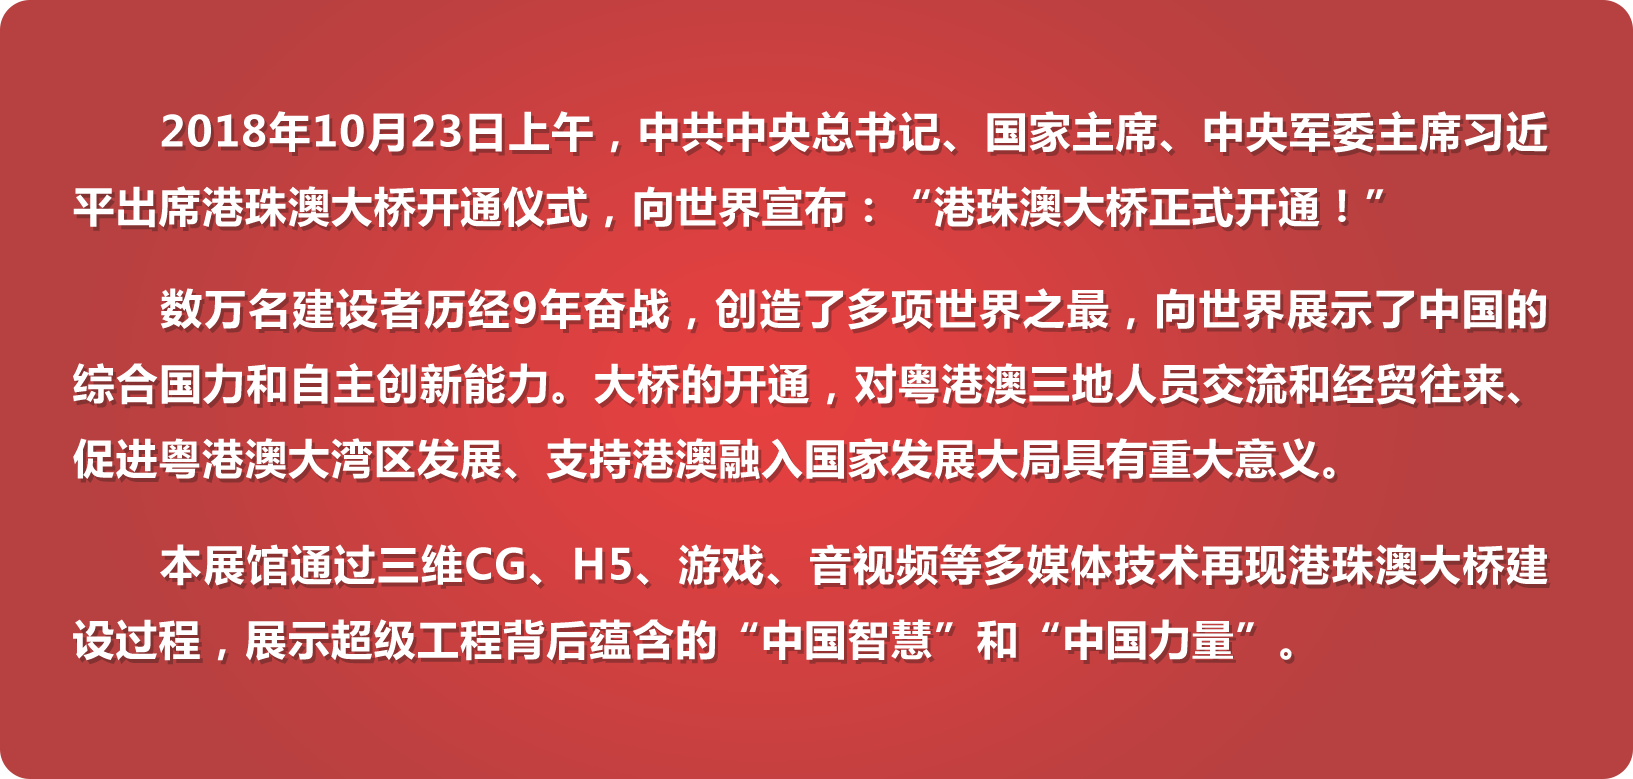
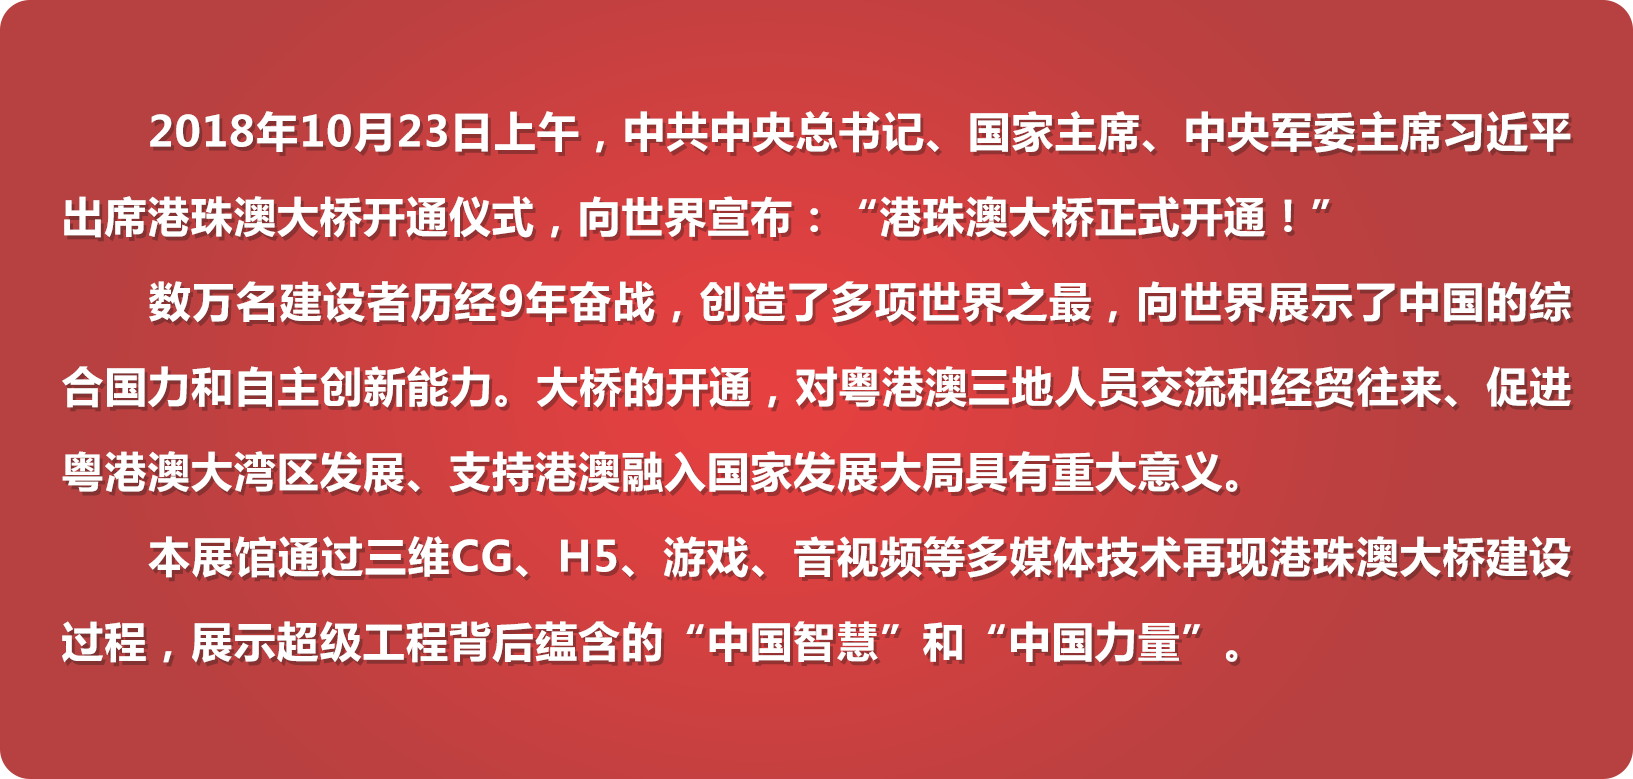
调整文案和样式

diff --git a/src/data/7-3.js b/src/data/7-3.js
@@ -1,59 +1,28 @@
 const infoDataArr = [
   {
     name: 'rubberWterstop',
-    title: '橡胶止水带：',
-    info: `止水带是沉管隧道的生命线。港珠澳大桥沉管隧道管节水
-      密防护采用橡胶止水带止水方案，在不同位置分别安装止水带、
-      中埋式止水带和两种型号的Omega止水带。其中大Omega止水带
-      是保证隧道管节接头水密性的重要构件，在沉管隧道遭遇地震、
-      爆炸、撞击等异常情况，发挥防水功能。别看一条普通的橡胶
-      材质止水带，实际它的材料非常精细、技术也很复杂，每条造
-      价高达200多万元。因为“十分精贵”，所以不能用机械设备安装，
-      只能靠人工一点点镶嵌。`,
+    title: '橡胶止水带',
+    info: `止水带是沉管隧道的生命线。港珠澳大桥沉管隧道管节水密防护采用橡胶止水带止水方案，在不同位置分别安装止水带、中埋式止水带和两种型号的Omega止水带。其中大Omega止水带是保证隧道管节接头水密性的重要构件，在沉管隧道遭遇地震、爆炸、撞击等异常情况，发挥防水功能。别看一条普通的橡胶材质止水带，实际它的材料非常精细、技术也很复杂，每条造价高达200多万元。因为“十分精贵”，所以不能用机械设备安装，只能靠人工一点点镶嵌。`,
   },
   {
     name: 'compositeFoundation',
-    title: '创新复合地基：',
-    info: `港珠澳大桥沉管隧道所处的海底地质环境是很厚的软土地基，
-      为了实现隧道不漏水，中国工程师在如何使软土层变硬上做文章。他
-      们经过无数次工法比选、理论计算和试验验证，在40多米深的海水下
-      为沉管基床底部铺上2到3米的块石并将它们打实，创造一种新的复合
-      地基，使沉管的沉降值大大缩小，平均沉降值控制在10厘米以内，杜
-      绝因海底沉降导致的渗水，而国外一般在20厘米左右。`,
+    title: '创新复合地基',
+    info: `港珠澳大桥沉管隧道所处的海底地质环境是很厚的软土地基，为了实现隧道不漏水，中国工程师在如何使软土层变硬上做文章。他们经过无数次工法比选、理论计算和试验验证，在40多米深的海水下为沉管基床底部铺上2到3米的块石并将它们打实，创造一种新的复合地基，使沉管的沉降值大大缩小，平均沉降值控制在10厘米以内，杜绝因海底沉降导致的渗水，而国外一般在20厘米左右。`,
   },
   {
     name: 'semirigidStructure',
-    title: '半刚性结构：',
-    info: `一直以来，沉管制作只有刚性和柔性两种方法，但这两种无
-      方法都无法满足港珠澳大桥的要求。于是，中国工程师们创新提出半
-      刚性的解决方案。半刚性结构综合了刚性和柔性结构的优点。用积木
-      做比喻吧，刚性结构就好比是长条的积木，柔性结构就好比用乐高小
-      积木拼接的积木条，而半刚性结构就像是用一根橡皮筋串起乐高小积
-      木，刚柔并济。半刚性结构允许积木之间有一定的张开，而且这个张
-      开是有控制的，不能无限变形，同时，保持始终在积木之间有一定的
-      压力，使得摩擦力能够发挥作用，保持相对不错位。`,
+    title: '半刚性结构',
+    info: `一直以来，沉管制作只有刚性和柔性两种方法，但这两种无方法都无法满足港珠澳大桥的要求。于是，中国工程师们创新提出半刚性的解决方案。半刚性结构综合了刚性和柔性结构的优点。用积木做比喻吧，刚性结构就好比是长条的积木，柔性结构就好比用乐高小积木拼接的积木条，而半刚性结构就像是用一根橡皮筋串起乐高小积木，刚柔并济。半刚性结构允许积木之间有一定的张开，而且这个张开是有控制的，不能无限变形，同时，保持始终在积木之间有一定的压力，使得摩擦力能够发挥作用，保持相对不错位。`,
   },
   {
     name: 'bestProportionOfConcrete',
-    title: '最佳配合比混凝土：',
-    info: `为了满足“强度、耐久性、施工性、抗裂性”四项基本要求，工
-      程师们用了近1年，用坏了4个混凝土搅拌机后，终于找到最佳的混凝土
-      配方。又经过上百次的试验调整，开展6次现场小尺寸模型试验，2次足
-      尺模型试验，18个人工岛沉箱混凝土验证，最终配制出抗裂性能强，满
-      足沉管施工工艺性能要求的混凝土配方。我们还专访了找到最佳的混凝
-      土配方的港珠澳大桥建设者——张宝兰，点击观看视频。`,
+    title: '最佳配合比混凝土',
+    info: `为了满足“强度、耐久性、施工性、抗裂性”四项基本要求，工程师们用了近1年，用坏了4个混凝土搅拌机后，终于找到最佳的混凝土配方。又经过上百次的试验调整，开展6次现场小尺寸模型试验，2次足尺模型试验，18个人工岛沉箱混凝土验证，最终配制出抗裂性能强，满足沉管施工工艺性能要求的混凝土配方。我们还专访了找到最佳的混凝土配方的港珠澳大桥建设者——张宝兰，点击观看视频。`,
   },
   {
     name: 'processManagement',
-    title: '156道工序管理：',
-    info: `从一根钢筋、一方混凝土到一个180米长的巨型沉管，需要经过
-      钢筋加工、钢筋笼绑扎、混凝土浇筑、管节一次舾装、深浅坞蓄排水及管
-      节起浮横移等156道工序，每一道工序都关系着港珠澳大桥120年的使用寿
-      命，每一个过程都充满风险，每一个环节都关乎产品质量。六年来，在156
-      道工序上的每一位建设者们，他们始终秉承着“每一次都是第一次”的工作
-      理念，始终坚持精益求精、追求精致的“工匠精神”，每一道工序、每一个
-      环节以“走钢丝”的心态，做到如履薄冰、细微严苛，一节一节完成大桥海
-      底隧道的延伸，一米一米地丈量出这座世纪工程`,
+    title: '156道工序管理',
+    info: `从一根钢筋、一方混凝土到一个180米长的巨型沉管，需要经过钢筋加工、钢筋笼绑扎、混凝土浇筑、管节一次舾装、深浅坞蓄排水及管节起浮横移等156道工序，每一道工序都关系着港珠澳大桥120年的使用寿命，每一个过程都充满风险，每一个环节都关乎产品质量。施工过程中，在156道工序上的每一位建设者们，他们始终秉承着“每一次都是第一次”的工作理念，始终坚持精益求精、追求精致的“工匠精神”，每一道工序、每一个环节以“走钢丝”的心态，做到如履薄冰、细微严苛，一节一节完成大桥海底隧道的延伸，一米一米地丈量出这座世纪工程。`,
   },
   {
     name: 'bhajan',

diff --git a/src/views/ZhiShiMoFang/data.js b/src/views/ZhiShiMoFang/data.js
@@ -313,6 +313,7 @@ export default
   'answer': [
     '（1）内地港珠澳大桥车牌办理条件有两个，一是公司必须是广东省内核准的国有企业、集体企业、私营企业等；二是三年内纳税总额需要达到一百万元人民币以上。除此之外，内资企业申请办理港珠澳车牌，还应提交部分证明材料。',
     '（2）境外申请港珠澳大桥车牌办理条件：境外到广东省内投资的企业（这里包括港澳台地区和外国公司等），无论投资额多少，只要在三年内（含申办当年）累计纳税达到10万元人民币以上，就能申请办理一辆通过港珠澳大桥往返内地的牌证；累计纳税50万元以上，可申请第二张港珠澳车牌；累计纳税100万元人民币以上的，可申请第三张港珠澳车牌。同样需要提交部分证明材料。',
+    '（3）据公安部2019年9月10日消息，对香港和澳门机动车经港珠澳大桥通行，澳门机动车进入横琴的核发电子临时入境机动车牌证，不再发放纸质牌证。电子临时入境机动车牌证有效期为1年。',
   ],
 },
 {

diff --git a/src/components/MaxCard.vue b/src/components/MaxCard.vue
@@ -35,16 +35,16 @@ export default {
     left: 50%;
     transform: translate(-50%, -50%);
     color: #fff;
-    background: #6fcaee;
+    background: #339edd;
     padding: 0.5rem;
     border-radius: 20px;
     background: radial-gradient(
-      rgba(101, 172, 218, 0.6),
+      rgba(101, 172, 218, 0.7),
       rgba(101, 172, 218, 0.9),
-      #6fcaee
+      #339edd
     );
     .MaxCardBorder {
-      border: 0.03rem solid #6fcaee;
+      border: 0.03rem solid #339edd;
       position: absolute;
       top: -0.15rem;
       left: -0.15rem;
@@ -54,9 +54,15 @@ export default {
       z-index: -1;
     }
     h3 {
-      font-size: 0.3rem;
-      margin-bottom: 0.3rem;
+      margin: 0.2rem 0;
+      font-size: 0.32rem;
+      font-weight: bold;
       line-height: 0.45rem;
+      text-align: center;
+    }
+    p {
+      font-size: 0.24rem;
+      text-indent: 0.48rem;
     }
     .left {
       float: left;

diff --git a/src/views/ZhiShiMoFang/index.vue b/src/views/ZhiShiMoFang/index.vue
@@ -271,21 +271,20 @@ export default {
         display: flex;
         flex-direction: row;
         .photo {
-          width: 3rem;
-          height: 3rem;
+          width: 2.8rem;
+          height: 2.8rem;
           vertical-align: top;
         }
         .line {
           height: 4rem;
           background: #fff;
           width: 3px;
-          margin-left: 30px;
+          margin-left: 0.5rem;
         }
         .answer {
           display: inline-block;
           width: 75%;
           height: 5rem;
-          margin-left: 5%;
           padding-left: 5%;
           // border-left: 1px solid #eee;
           box-sizing: border-box;

diff --git a/src/views/DynamicPicture/index.vue b/src/views/DynamicPicture/index.vue
@@ -11,7 +11,7 @@
         <right @click="slicebox && slicebox.next()"/>
       </div>
     </div>
-    <back :style="{ top: '0.25rem', right: '0.25rem', width: '1.2rem', height: '1.2rem' }" @click.native="$router.back()"/>
+    <back :style="{ bottom: '0.25rem', right: '0.25rem', width: '1.2rem', height: '1.2rem' }" @click.native="$router.back()"/>
   </div>
 </template>
 <script>
